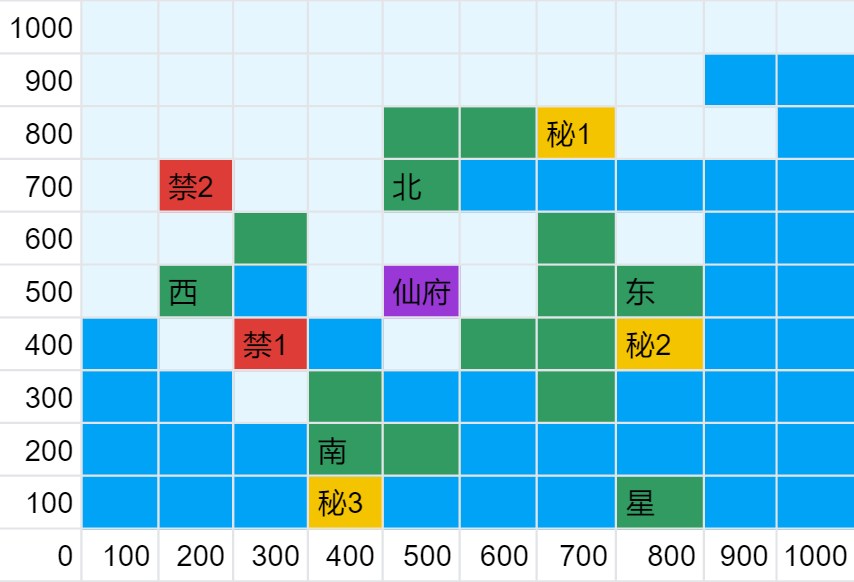
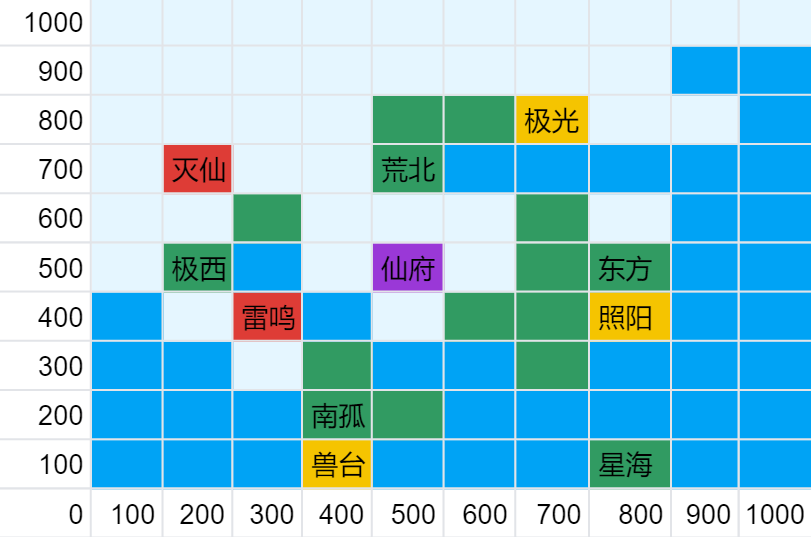
V2.0优化

Changed region(s): [[0.0, 0.0, 1.0, 1.0], [0.8015, 0.0596, 1.0, 0.2086]]

diff --git a/apps/SecretPlace/SecretPlace.js b/apps/SecretPlace/SecretPlace.js
@@ -1,6 +1,7 @@
 //插件加载
 import plugin from '../../../../lib/plugins/plugin.js'
-import {Go,Read_action} from '../Xiuxian/Xiuxian.js'
+import data from '../../model/XiuxianData.js'
+import { Go, Read_action, Read_level, Write_action, map_distance } from '../Xiuxian/Xiuxian.js'
 export class SecretPlace extends plugin {
     constructor() {
         super({
@@ -15,7 +16,7 @@ export class SecretPlace extends plugin {
                 },
                 {
                     reg: '^#位置信息$',
-                    fnc: 'address'
+                    fnc: 'xyzaddress'
                 },
                 {
                     reg: '^#前往.*$',
@@ -38,10 +39,10 @@ export class SecretPlace extends plugin {
         return;
     }
 
-    async address(e){
+    async xyzaddress(e) {
         let usr_qq = e.user_id;
-        let action=await Read_action(usr_qq);
-        e.reply("坐标("+action.x+","+action.y+","+action.z+")");
+        let action = await Read_action(usr_qq);
+        e.reply("坐标(" + action.x + "," + action.y + "," + action.z + ")");
         return;
     }
 
@@ -49,7 +50,33 @@ export class SecretPlace extends plugin {
         e.reply("待更新");
         return;
     }
-    
+
+    async forward(e) {
+        let good = await Go(e);
+        if (!good) {
+            return;
+        };
+        let address = e.msg.replace("#前往", '');
+        let place = data.position_list.find(item => item.name == address);
+        if (!place) {
+            return;
+        };
+        let usr_qq = e.user_id;
+        let level = await Read_level(usr_qq);
+        if (level.level_id < place.grade) {
+            e.reply("前面的区域，以后再来探索吧！");
+            return;
+        };
+        let action = await Read_action(usr_qq);
+        action.x =  Math.floor((Math.random() * (place.x2 - place.x1))) + Number(place.x1);
+        action.y = Math.floor((Math.random() * (place.y2 - place.y1))) + Number(place.y1);
+        action.z = 0;
+        console.log(action);
+        await Write_action(usr_qq,action);
+        e.reply("成功抵达" + place.name);
+        return;
+    }
+
     async move(e) {
         e.reply("待更新");
         return;

diff --git a/model/XiuxianData.js b/model/XiuxianData.js
@@ -18,6 +18,7 @@ class XiuxianData {
             "fixedoccupation": path.join(__dirname, "/resources/data/fixed/occupation"),
             "fixedtalent": path.join(__dirname, "/resources/data/fixed/talent"),
             "sorcery": path.join(__dirname, "/resources/data/fixed/sorcery"),
+            "position": path.join(__dirname, "/resources/data/fixed/position"),
         };
         this.association = this.__PATH.birthassociation;
         this.fixedequipment = this.__PATH.fixedequipment;
@@ -28,6 +29,9 @@ class XiuxianData {
         this.talent = this.__PATH.fixedtalent;
         this.all = this.__PATH.all;
         this.sorcery = this.__PATH.sorcery;
+
+        this.position = this.__PATH.position;
+
         this.monster_list = JSON.parse(fs.readFileSync(`${this.lib}/monster_list.json`));
         this.Level_list = JSON.parse(fs.readFileSync(`${this.Level}/Level_list.json`));
         this.LevelMax_list = JSON.parse(fs.readFileSync(`${this.Level}/LevelMax_list.json`));
@@ -40,12 +44,16 @@ class XiuxianData {
         this.ring_list = JSON.parse(fs.readFileSync(`${this.goods}/ring_list.json`));
         this.talent_list = JSON.parse(fs.readFileSync(`${this.talent}/talent.json`));
         
+        this.position_list = JSON.parse(fs.readFileSync(`${this.position}/position.json`));
+        
         this.attack_list = JSON.parse(fs.readFileSync(`${this.sorcery}/attack_list.json`));
         this.defense_list = JSON.parse(fs.readFileSync(`${this.sorcery}/defense_list.json`));
         this.blood_list = JSON.parse(fs.readFileSync(`${this.sorcery}/blood_list.json`));
         this.burst_list = JSON.parse(fs.readFileSync(`${this.sorcery}/burst_list.json`));
         this.burstmax_list = JSON.parse(fs.readFileSync(`${this.sorcery}/burstmax_list.json`));
         this.speed_list = JSON.parse(fs.readFileSync(`${this.sorcery}/speed_list.json`));
+
+        
 
         this.deletelist('all');
         this.list(this.fabao_list, all, 99);

diff --git a/apps/Battle/Battle.js b/apps/Battle/Battle.js
@@ -16,7 +16,7 @@ export class Battle extends plugin {
                 }
             ]
         })
-    }
+    };
 
     //攻击
     async Attack(e) {
@@ -43,7 +43,8 @@ export class Battle extends plugin {
         if(qq==0){
             let h=await distance(A,B);
             e.reply("他离你"+Math.floor(h)+"里！");
-        }else{
+        }
+        else{
             //根据QQ掉落物品
             let p=Math.floor((Math.random() * (99-1)+1));
             //如果真，掉物品

diff --git a/apps/User/UserStart.js b/apps/User/UserStart.js
@@ -108,8 +108,8 @@ export class UserStart extends plugin {
         let new_action = {
             "game": 1,//游戏状态
             "Couple": 1, //双修
-            "x":Math.floor((Math.random() * (199-100)+100)),
-            "y":Math.floor((Math.random() * (499-400)+400)),
+            "x":Math.floor((Math.random() * (199-100))) + Number(100),
+            "y":Math.floor((Math.random() * (499-400))) + Number(400),
             "z":0,//位面为0
             "Exchange":0
         }

diff --git a/apps/Xiuxian/Xiuxian.js b/apps/Xiuxian/Xiuxian.js
@@ -773,4 +773,9 @@ export async function distance(A,B){
     let b=await Read_action(B);
     let h=Math.pow(Math.pow((a.x-b.x),2)+Math.pow((a.y-b.y),2),1/2);
     return h;
+};
+
+export async function map_distance(A,B){
+    let h=Math.pow(Math.pow((A.x-B.x1),2)+Math.pow((A.y-B.y1),2),1/2);
+    return h;
 }
